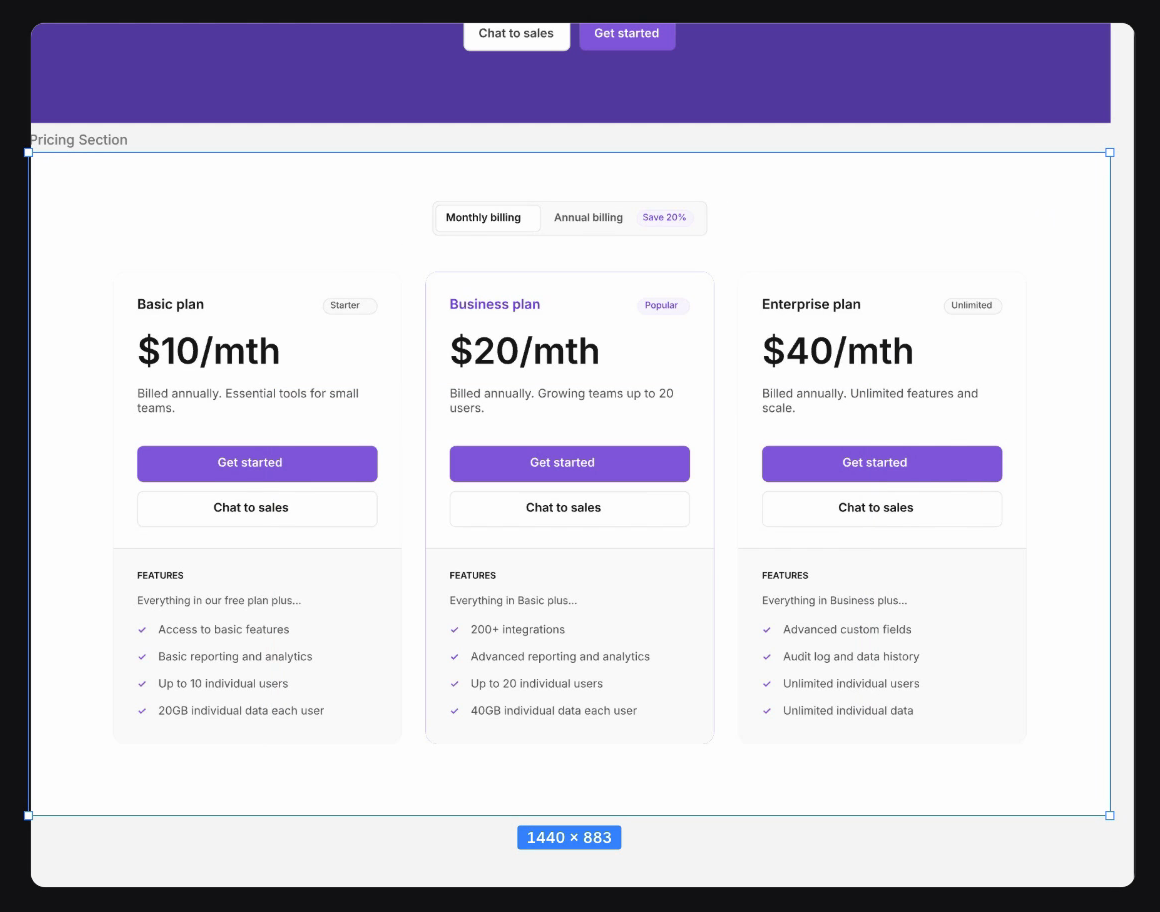
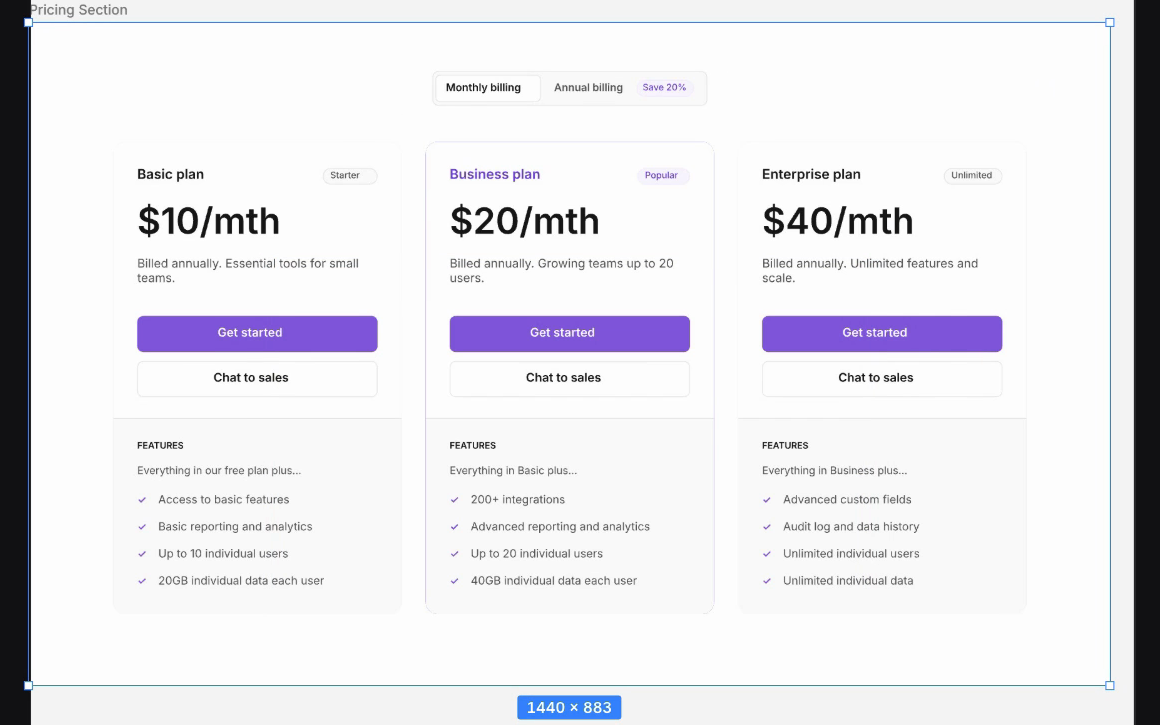
docs(pages): use the agent frame as the film poster and keep the page under 6,000 px
The owner picked the agent pricing frame as the film's poster. Crop the
section still to the pricing section so the agents section keeps its
height.

diff --git a/docs/index.html b/docs/index.html
@@ -431,8 +431,8 @@ kbd{padding:2px 8px;border-radius:var(--r-sm);background:var(--surface);box-shad
       <p class="lead">Studio bundles <code>designos-mcp</code>, a local server with 22 tools. Point your coding agent at it and it works on the document you have open.</p>
       <div class="split">
         <figure class="media">
-          <a class="shot" href="images/agent-edits-open-file-030.png" data-size="1160 × 912">
-            <img src="images/agent-edits-open-file-030.png" width="1160" height="912" loading="lazy" alt="A DESIGN:OS Studio canvas with a file from the Untitled UI kit open: under the kit's purple header, a 1440 by 883 pricing section that a coding agent added, with a billing toggle and three plan cards, Basic, Business and Enterprise">
+          <a class="shot" href="images/agent-edits-open-file-030.png" data-size="1160 × 725">
+            <img src="images/agent-edits-open-file-030.png" width="1160" height="725" loading="lazy" alt="A DESIGN:OS Studio canvas with a file from the Untitled UI kit open: a 1440 by 883 pricing section that a coding agent added, with a monthly and annual billing toggle and three plan cards, Basic, Business and Enterprise">
           </a>
           <figcaption><strong>An agent adds a pricing section</strong> to the file you have open. Antigravity with Gemini 4 Argon, through <code>designos-mcp</code>. A still from the launch film.</figcaption>
         </figure>
